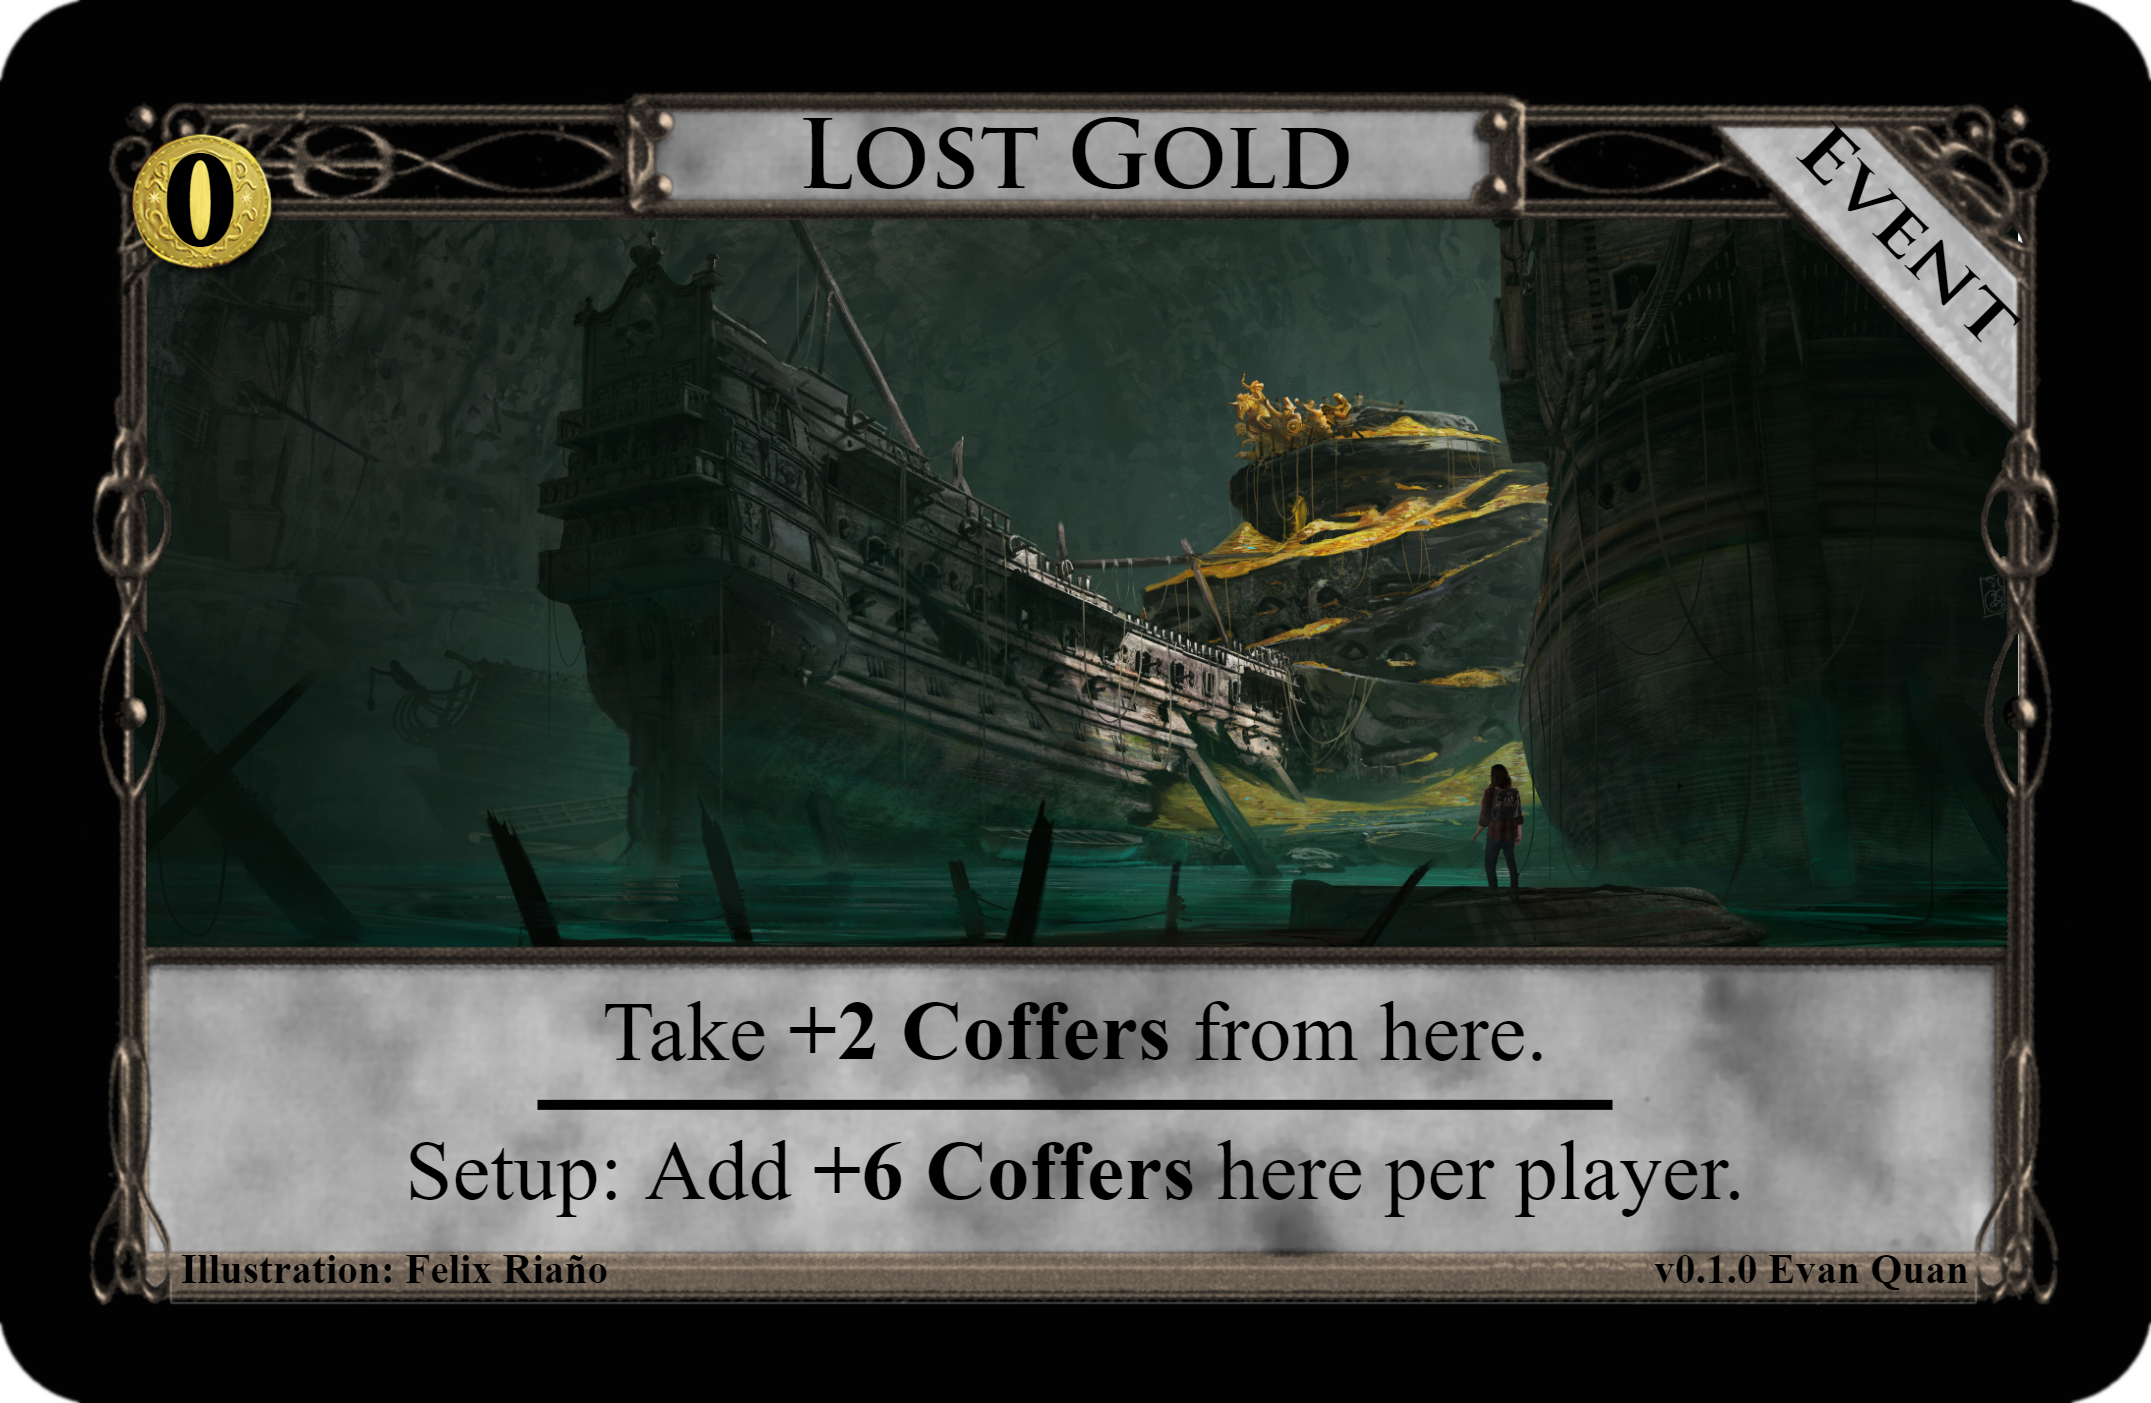
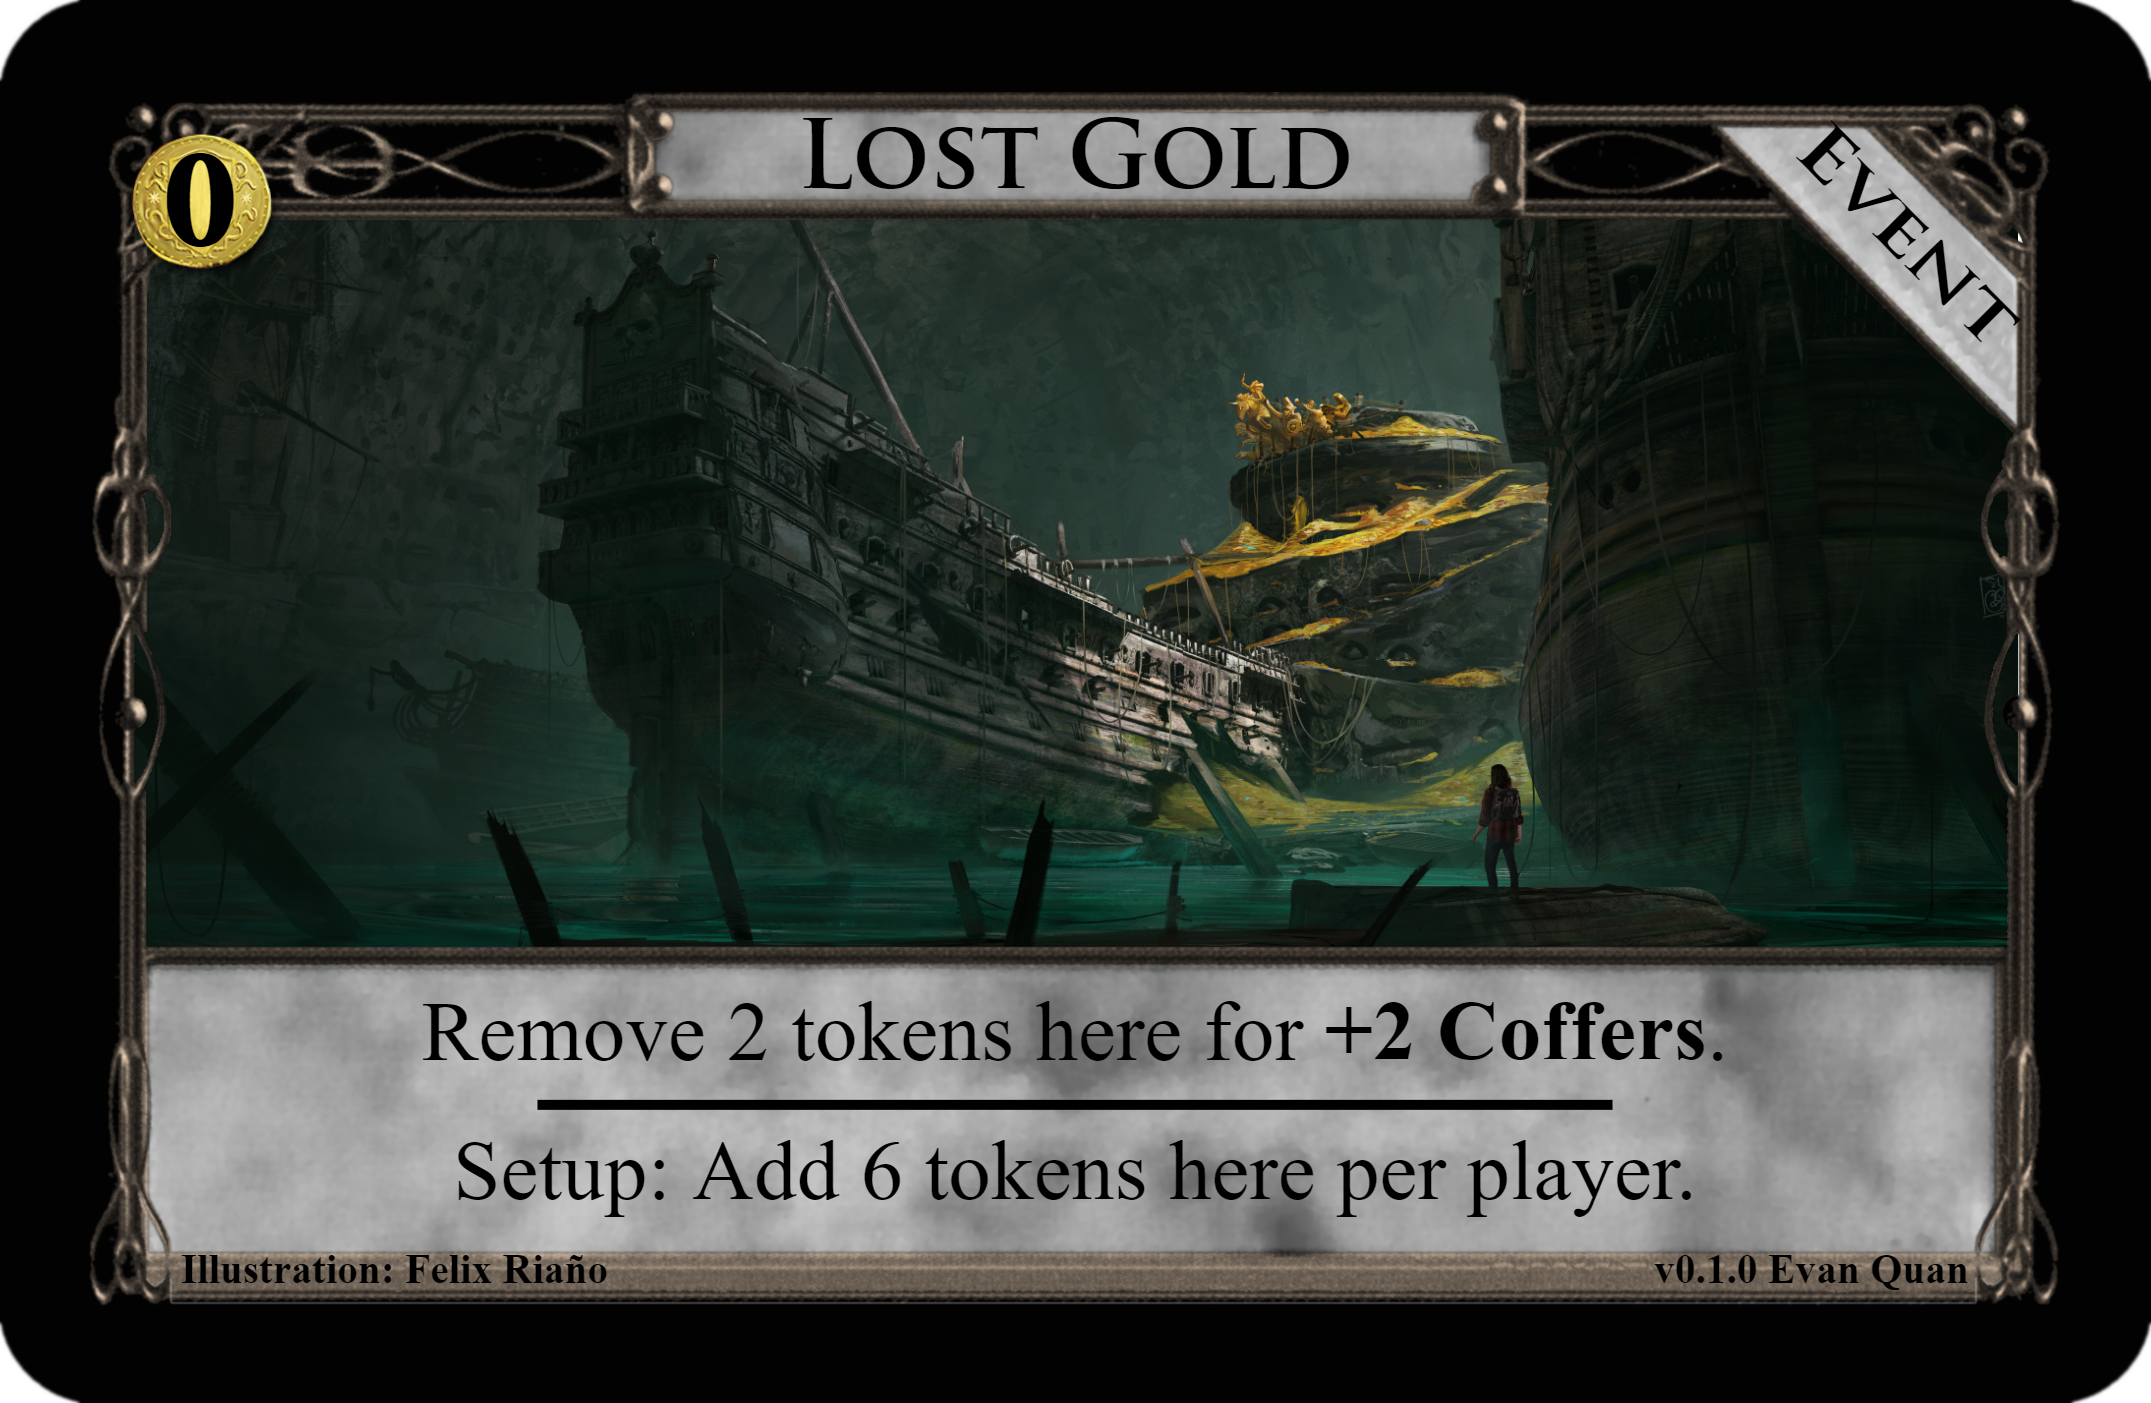
Update phrasing.

Changed region(s): [[0.1869, 0.7049, 0.8099, 0.7662], [0.1869, 0.7969, 0.8099, 0.8582]]

diff --git a/Event/LostGold.md b/Event/LostGold.md
@@ -13,6 +13,6 @@
 ---
 
 [^v0.1.0]: /Event/Images/Lost_Gold_v0.1.0.png
-[^Card]: https://shardofhonor.github.io/dominion-card-generator/?title=Lost%20Gold&description=Take%20%2B2%20Coffers%20from%20here.%0A-%0ASetup%3A%20Add%20%2B6%20Coffers%20here%20per%20player.&type=Event&credit=Illustration%3A%20Felix%20Ria%C3%B1o&creator=v0.1.0%20Evan%20Quan&price=%240&preview=&type2=&color2split=1&boldkeys=&picture-x=0&picture-y=0.42&picture-zoom=1&picture=https%3A%2F%2Fcdna.artstation.com%2Fp%2Fassets%2Fimages%2Fimages%2F013%2F929%2F010%2F4k%2Ffelix-riano-necropolis.jpg%3F1541699371&expansion=&custom-icon=&color0=0&color1=0&size=1
+[^Card]: https://shardofhonor.github.io/dominion-card-generator/?title=Lost%20Gold&description=Remove%202%20tokens%20here%20for%20%2B2%20Coffers.%0A-%0ASetup%3A%20Add%206%20tokens%20here%20per%20player.&type=Event&credit=Illustration%3A%20Felix%20Ria%C3%B1o&creator=v0.1.0%20Evan%20Quan&price=%240&preview=&type2=&color2split=1&boldkeys=&picture-x=0&picture-y=0.42&picture-zoom=1&picture=https%3A%2F%2Fcdna.artstation.com%2Fp%2Fassets%2Fimages%2Fimages%2F013%2F929%2F010%2F4k%2Ffelix-riano-necropolis.jpg%3F1541699371&expansion=&custom-icon=&color0=0&color1=0&size=1
 [^Illustrator]: https://www.artstation.com/felixriano
 [^Illustration]: https://www.artstation.com/artwork/nQYOY1
